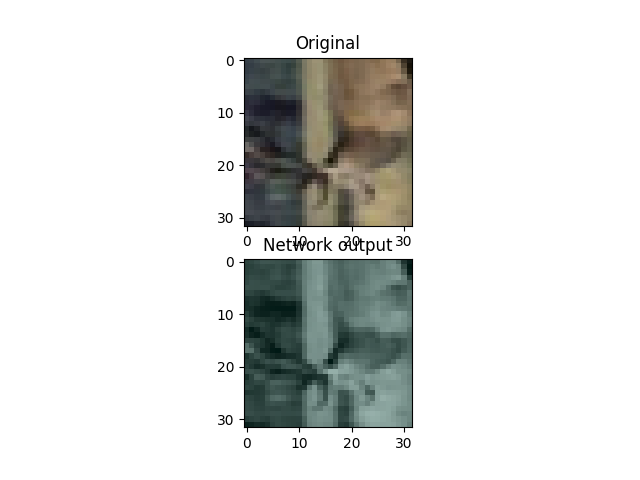
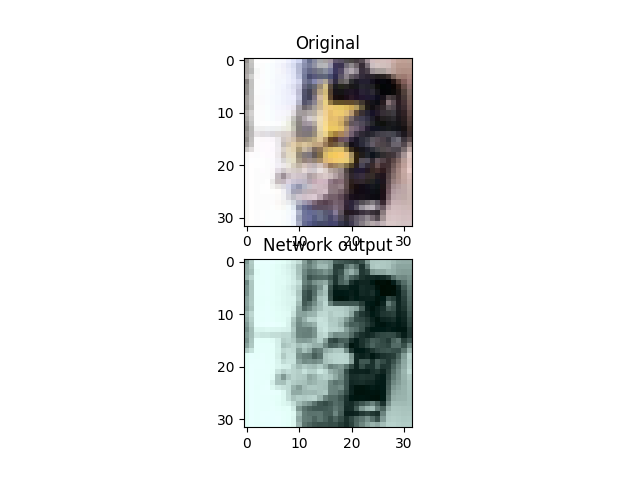
w_space

Changed region(s): [[0.375, 0.5312, 0.6562, 0.9062], [0.375, 0.125, 0.6562, 0.4688]]

diff --git a/functions.py b/functions.py
@@ -4,8 +4,9 @@ import math
 import matplotlib.pyplot as plt
 from scipy.spatial import KDTree
 
-q = 246  # This was the Q we got, right?
+#q = 246  # This was the Q we got, right?
 q_space = np.load('./quantized_space/q_space.npy')
+w_points = torch.from_numpy(np.load('./quantized_space/w_points.npy'))
 
 
 def getQ(pixels):
@@ -42,6 +43,7 @@ def q_distribution_to_ab(q_dist_img, q_points):
 
     for i in range(h):
         for j in range(w):
+            q_dist_img[i, j] += w_points
             q_idx = torch.argmax(q_dist_img[i, j])
             a, b = q_points[q_idx]
             # print(q_points)
@@ -97,16 +99,15 @@ def space_to_points():
     np.save('./quantized_space/q_points.npy', points)
     return points
 
-def w_space_to_w_points():
-    w_space = np.load('./quantized_space/w_space.npy')
+
+def x_space_to_x_points(space, name):
     points = []
-    for i in range(w_space.shape[0]):
-        for j in range(w_space.shape[1]):
-            if w_space[i, j] == 0:
-                continue
-            points.append(w_space[i,j])
-    np.save('./quantized_space/w_points.npy', points)
-    return points
+    for i in range(q_space.shape[0]):
+        for j in range(q_space.shape[1]):
+            if q_space[i, j] != 0:
+                points.append(space[i, j])
+    np.save('./quantized_space/'+name+'.npy', points)
+    return np.array(points)
 
 
 def find_k_nearest_q(ab, k=1):
@@ -169,34 +170,44 @@ def create_q_list():
     print(len(q_list))
     np.save('./quantized_space/q_list.npy', np.array(q_list))
 
-def create_w_space():
+def get_ab_pairs_quantified():
     ab_vals = torch.load('./processed_data/ab_values5000.pt')
-    _lambda, _q = 0.5, 208
-    p = np.zeros((22,22))
+    ab_pairs = np.zeros((22, 22))
     for ab in ab_vals:
-        p[ab_to_quantization(ab)] += 1
-    p = softmax(p)
+        ab_pairs[ab_to_quantization(ab)] += 1
+    np.save('./quantized_space/ab_pairs.npy', ab_pairs)
+    return ab_pairs
+
+
+def create_w_points():
+    _lambda, _q = 0.5, 208
+    ab_pairs = np.load('./quantized_space/ab_pairs.npy')
+    print('ab pairs', ab_pairs)
+    p = x_space_to_x_points(ab_pairs, 'p_points')
+    print('p_points', p)
+    #p = softmax(p)       # Try skipping first softmax ?
+    #print('P2', p)
     denom = (1-_lambda) * p + (_lambda / _q)
     w = 1 / denom
+    print('W1', w)
     w = softmax(w)
-    w[np.isnan(w)] = 0
-    print(w)
-    np.save('./quantized_space/p_space.npy', p)
-    np.save('./quantized_space/w_space.npy', w)
+    print('W2', w)
+    np.save('./quantized_space/p_points.npy', p)
+    np.save('./quantized_space/w_points.npy', w)
     return w
 
+
 def softmax(x):
-    return np.exp(x) / np.sum(np.exp(x), axis=0)
-
-def prepare_rebalance():
-    create_w_space()
-    w_points = w_space_to_w_points()
-    print(w_points)
-    print(len(w_points))
-
+    # save typing...
+    e_x = np.exp(x - np.max(x))
+    return e_x / e_x.sum(axis=0)
 
 
 if __name__ == '__main__':
+    print(define_in_gamut(torch.load('./processed_data/ab_values5000.pt')))
+    get_ab_pairs_quantified()
+    create_w_points()
+    # w_space_to_w_points()
     # ab_vals = np.load('./processed_data/ab_values50000000.npy')
     # q_list = np.load('./quantized_space/q_list.npy')
 
